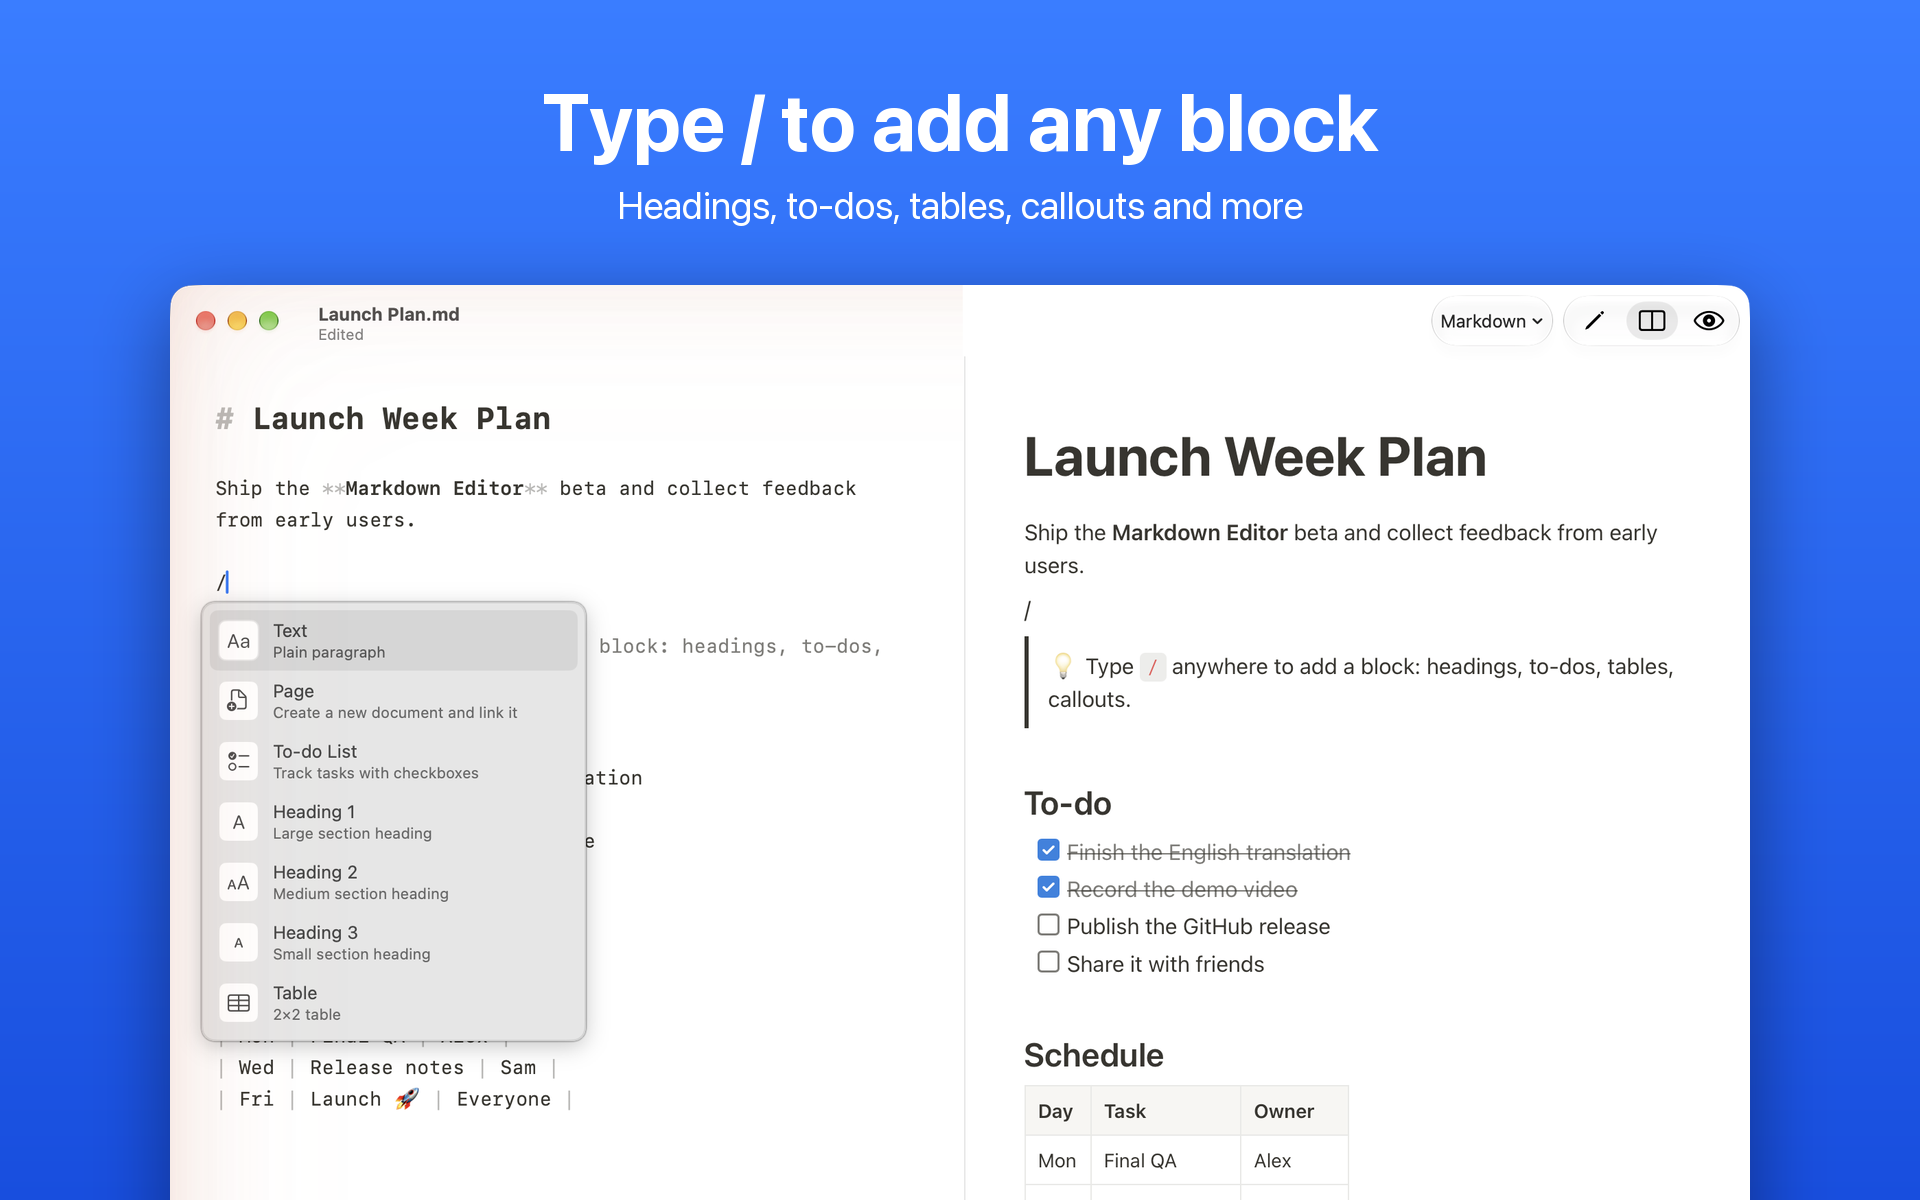
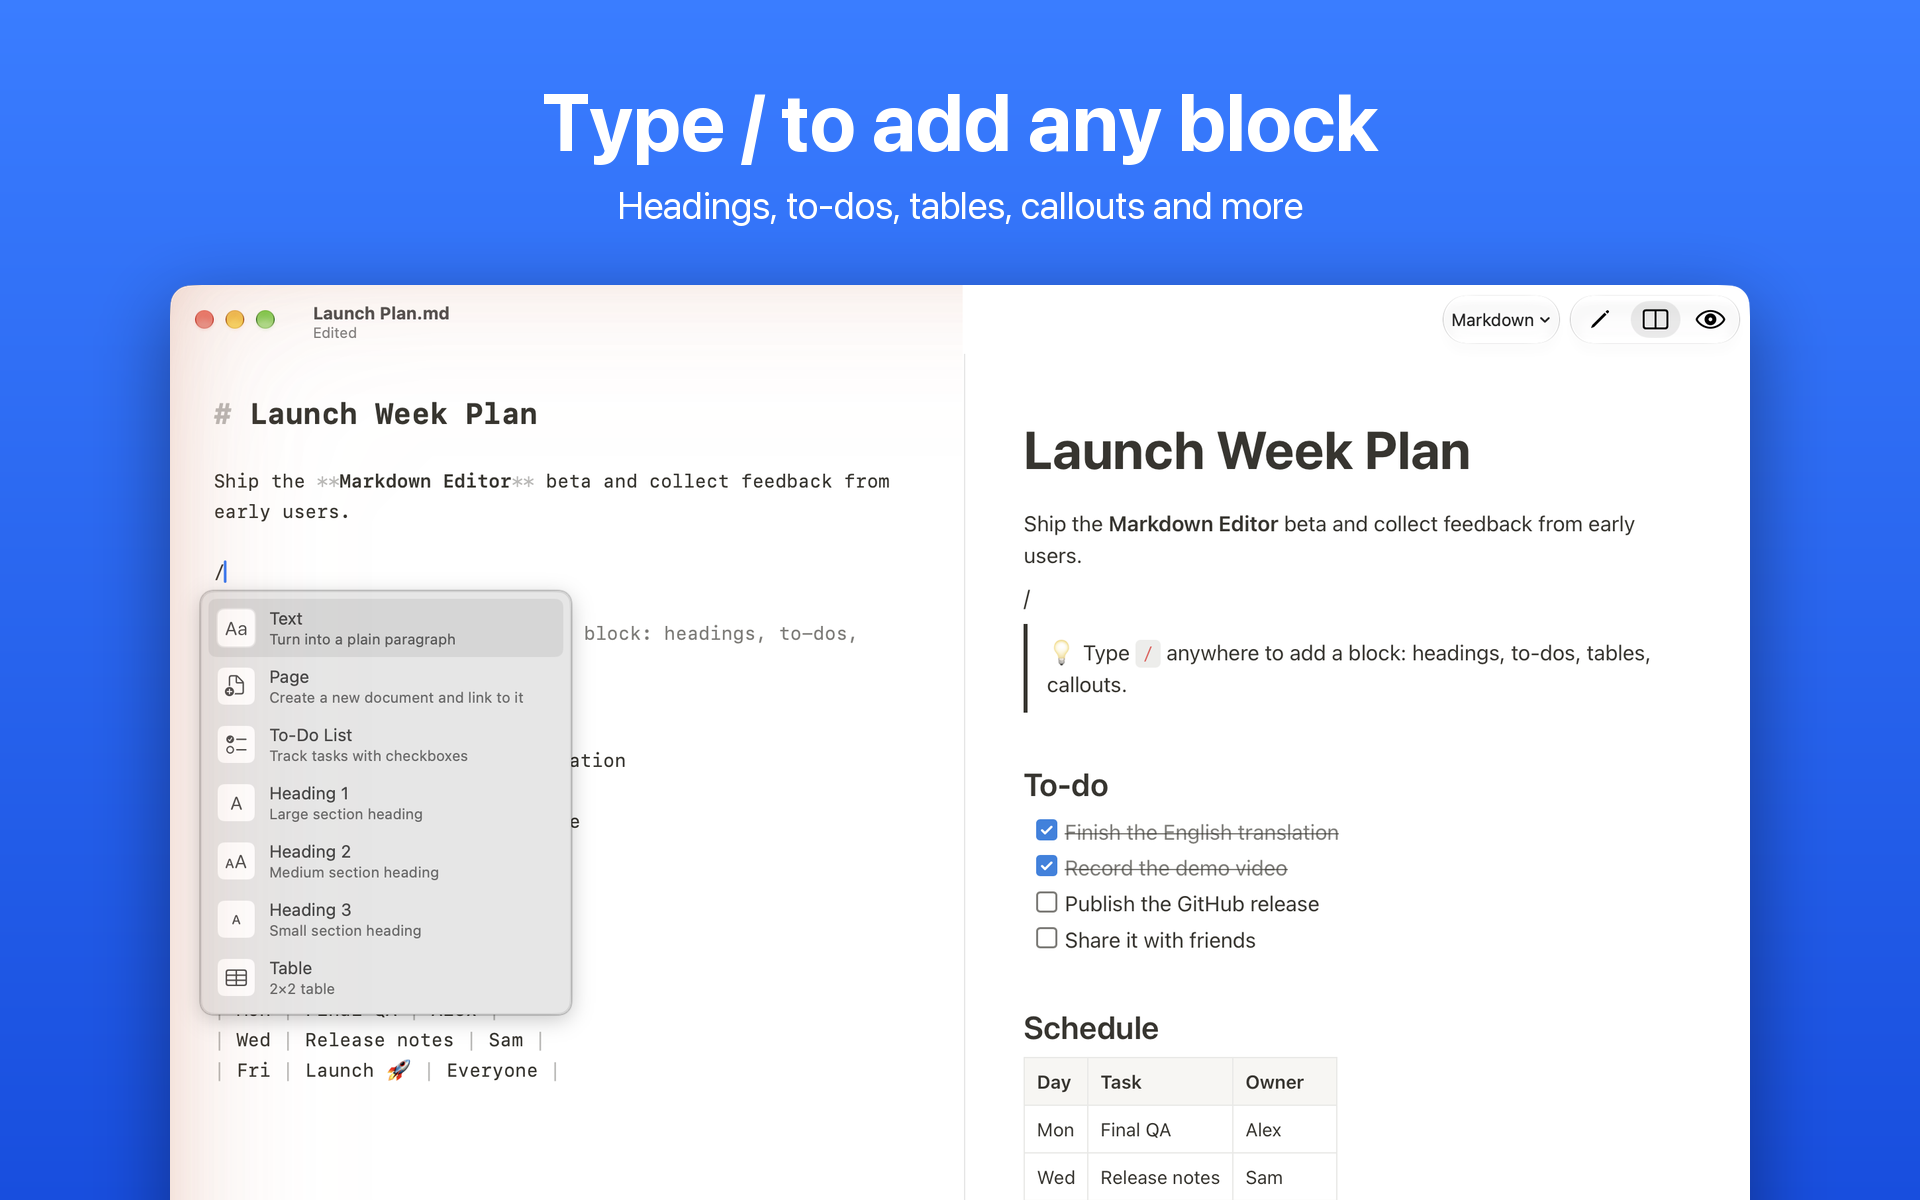
Polish Korean and English wording
Reviewed with Gemini 4 Hydrogen. In the app: 더 보기 spacing, clearer
slash-command hints, the comment box placeholder, and To-Do List in
Apple title case. In the READMEs: standard terms (syntax highlighting,
구문 강조), the per-app language path (응용 프로그램), and smoother
sentences. The screenshots that showed the old wording are retaken.

diff --git a/App/SlashCommands.swift b/App/SlashCommands.swift
@@ -21,7 +21,7 @@ struct SlashCommand: Identifiable {
     /// Notion's basic, inline and advanced blocks that have a Markdown form, in Notion's order.
     static let all: [SlashCommand] = [
         .init(title: String(localized: "텍스트"), hint: String(localized: "일반 문단으로"), symbol: "textformat", keywords: "text plain paragraph", action: .block("")),
-        .init(title: String(localized: "페이지"), hint: String(localized: "새 문서를 만들고 링크"), symbol: "doc.badge.plus", keywords: "page subpage new", action: .page),
+        .init(title: String(localized: "페이지"), hint: String(localized: "새 문서를 만들어 링크 걸기"), symbol: "doc.badge.plus", keywords: "page subpage new", action: .page),
         .init(title: String(localized: "할 일 목록"), hint: String(localized: "체크박스로 할 일 관리"), symbol: "checklist", keywords: "todo task checkbox", action: .block("- [ ] ")),
         .init(title: String(localized: "제목 1"), hint: String(localized: "큰 섹션 제목"), symbol: "textformat.size.larger", keywords: "# h1 heading title", action: .block("# ")),
         .init(title: String(localized: "제목 2"), hint: String(localized: "중간 섹션 제목"), symbol: "textformat.size", keywords: "## h2 heading", action: .block("## ")),
@@ -43,9 +43,9 @@ struct SlashCommand: Identifiable {
         .init(title: String(localized: "링크"), hint: String(localized: "웹 링크·북마크"), symbol: "link", keywords: "link url web book bookmark", action: .insert("[", "](https://)")),
         .init(title: String(localized: "목차"), hint: String(localized: "제목으로 만든 목차"), symbol: "list.bullet.indent", keywords: "toc table of contents outline", action: .toc),
         .init(title: String(localized: "날짜"), hint: String(localized: "오늘 날짜"), symbol: "calendar", keywords: "date today reminder", action: .date),
-        .init(title: String(localized: "이모지"), hint: String(localized: "이모지 선택창"), symbol: "face.smiling", keywords: "emoji", action: .emoji),
+        .init(title: String(localized: "이모지"), hint: String(localized: "이모지 선택 창"), symbol: "face.smiling", keywords: "emoji", action: .emoji),
         .init(title: String(localized: "각주"), hint: String(localized: "문서 끝에 붙는 메모"), symbol: "number", keywords: "footnote", action: .insert("[^", "]")),
-        .init(title: String(localized: "복제"), hint: String(localized: "이 줄을 아래에 복사"), symbol: "plus.square.on.square", keywords: "duplicate dup copy", action: .duplicate),
+        .init(title: String(localized: "복제"), hint: String(localized: "이 줄을 아래에 복제"), symbol: "plus.square.on.square", keywords: "duplicate dup copy", action: .duplicate),
         .init(title: String(localized: "삭제"), hint: String(localized: "이 줄 지우기"), symbol: "trash", keywords: "delete del remove", action: .delete),
     ]
 

diff --git a/App/App.swift b/App/App.swift
@@ -255,7 +255,7 @@ struct FormatMenu: View {
             // The choice covers every file of this kind, so the menu names the kind.
             Section("모든 \(fileURL.pathExtension.isEmpty ? fileURL.lastPathComponent : "." + fileURL.pathExtension) 파일의 형식") {
                 ForEach(FileFormat.common) { option(for: $0) }
-                Menu("더보기") {
+                Menu("더 보기") {
                     ForEach(FileFormat.all.filter { !FileFormat.common.contains($0) }) { option(for: $0) }
                 }
             }
@@ -334,7 +334,7 @@ struct NewFileCommands: Commands {
                 ForEach(FileFormat.common) { format in
                     Button("\(format.name) (.\(format.fileExtension))") { NewFile.createWithPanel(suggesting: format) }
                 }
-                Menu("더보기") {
+                Menu("더 보기") {
                     ForEach(FileFormat.more) { format in
                         Button("\(format.name) (.\(format.fileExtension))") { NewFile.createWithPanel(suggesting: format) }
                     }

diff --git a/FinderExtension/FinderSync.swift b/FinderExtension/FinderSync.swift
@@ -18,12 +18,12 @@ final class FinderSync: FIFinderSync {
         NSImage(systemSymbolName: "doc.badge.plus", accessibilityDescription: String(localized: "새 파일"))!
     }
 
-    /// The toolbar button lists the common formats, the rest under 더보기; a right-click, on a folder's
+    /// The toolbar button lists the common formats, the rest under 더 보기; a right-click, on a folder's
     /// background or on a file in it, has the same under 새로 만들기 as on Windows.
     override func menu(for menuKind: FIMenuKind) -> NSMenu? {
         let formats = NSMenu()
         for format in FileFormat.common { formats.addItem(item(Self.title(for: format))) }
-        let more = NSMenuItem(title: String(localized: "더보기"), action: nil, keyEquivalent: "")
+        let more = NSMenuItem(title: String(localized: "더 보기"), action: nil, keyEquivalent: "")
         more.submenu = NSMenu()
         for format in FileFormat.more { more.submenu?.addItem(item(Self.title(for: format))) }
         formats.addItem(more)

diff --git a/Shared/FileFormats.swift b/Shared/FileFormats.swift
@@ -56,7 +56,7 @@ struct FileFormat: Hashable, Identifiable, Sendable {
     static let markdown = FileFormat(name: "Markdown", extensions: ["md", "markdown", "mdown"], language: nil, preview: .markdown)
     static let text = FileFormat(name: String(localized: "텍스트"), extensions: ["txt", "text", "log"], language: nil, preview: .text)
 
-    /// What people and developers make most, first in the 새 파일 menus; the rest are under 더보기.
+    /// What people and developers make most, first in the 새 파일 menus; the rest are under 더 보기.
     static let common = [markdown] + creatable.prefix(8)
     static let more = Array(creatable.dropFirst(8))
 

diff --git a/App/Preview.swift b/App/Preview.swift
@@ -235,7 +235,7 @@ struct Preview: NSViewRepresentable {
         body.querySelector('.comment-draft')?.remove();
         const draft = make('form'), input = make('input'), add = make('button');
         draft.className = 'comment-draft';
-        input.placeholder = \(js(String(localized: "주석을 쓰고 Return · 취소는 Esc")));
+        input.placeholder = \(js(String(localized: "주석 입력 후 Return · 취소는 Esc")));
         add.textContent = \(js(String(localized: "추가")));
         draft.append(input, add);
         line.before(draft);

diff --git a/README.ko.md b/README.ko.md
@@ -19,7 +19,7 @@
 
 - **실시간 미리보기가 있는 마크다운.** 왼쪽에서 글을 쓰면 오른쪽에 제목, 할 일 목록, 표, 인용이 바로 보여요. ⌘1, ⌘2, ⌘3으로 편집·분할·미리보기를 오가요.
 - **슬래시 명령.** `/`를 입력하면 제목, 할 일 목록, 표, 토글, 콜아웃, 코드 블록, 목차, 날짜, 새 페이지 링크를 넣을 수 있어요.
-- **코드 에디터처럼 보이는 코드 미리보기.** Python, JavaScript, TypeScript, Go, Rust, Swift, Java, C, C++, 셸, SQL, YAML 등을 구문 색상과 줄 번호로 보여 줘요. 줄 번호를 누르면 그 언어의 문법에 맞는 주석을 달 수 있어요.
+- **코드 에디터처럼 보이는 코드 미리보기.** Python, JavaScript, TypeScript, Go, Rust, Swift, Java, C, C++, 셸, SQL, YAML 등의 코드를 구문 강조, 줄 번호와 함께 보여 줘요. 줄 번호를 누르면 그 언어의 문법에 맞는 주석을 달 수 있어요.
 - **데이터 파일.** CSV와 TSV는 표로 열려요. JSON은 올바른지 알려 주고, 틀렸으면 몇 번째 줄 근처인지 짚어 줘요.
 - **Finder 연동.** 폴더에서 우클릭하고 **새로 만들기**를 고르면 마크다운·텍스트·코드 파일을 만들면서 바로 이름을 정할 수 있어요. 훑어보기(Quick Look)로 마크다운을 미리 볼 수 있어요.
 - **인코딩 유지.** UTF-8(BOM 포함 여부 그대로), UTF-16, CP949 파일을 원래 인코딩으로 저장해요.
@@ -39,15 +39,15 @@ cd MarkdownEditor
 ./install.sh
 ```
 
-스크립트가 언어를 물어본 뒤 Release로 빌드해 `/Applications`에 설치하고, Finder와 훑어보기 확장을 등록해요. 묻지 않고 바로 설치하려면 언어를 같이 넘기세요.
+스크립트가 언어를 물어본 뒤 Release로 빌드해 `/Applications`에 설치하고, Finder와 훑어보기 확장을 등록해요. 질문 없이 바로 설치하려면 언어를 함께 넘기세요.
 
 ```bash
-./install.sh --lang ko     # 어디서나 한국어
-./install.sh --lang en     # 어디서나 영어
+./install.sh --lang ko     # 항상 한국어
+./install.sh --lang en     # 항상 영어
 ./install.sh --lang auto   # macOS 언어를 따름
 ```
 
-`auto`로 설치했다면 시스템 설정 ▸ 일반 ▸ 언어 및 지역 ▸ 앱에서 이 앱만 다른 언어로 지정할 수도 있어요.
+`auto`로 설치했다면 시스템 설정 ▸ 일반 ▸ 언어 및 지역 ▸ 응용 프로그램에서 이 앱만 다른 언어로 지정할 수도 있어요.
 
 Finder에서 우클릭해도 **새로 만들기**가 안 보이면 시스템 설정 ▸ 일반 ▸ 로그인 항목 및 확장 프로그램의 확장 프로그램 목록에서 Markdown Editor의 Finder 확장을 켜 주세요.
 
@@ -84,12 +84,12 @@ open MarkdownEditor.xcodeproj
 swiftc Shared/Syntax.swift Checks/main.swift -o /tmp/checks && /tmp/checks
 ```
 
-언어를 더하려면 Xcode에서 `Shared/Localizable.xcstrings`와 세 개의 `InfoPlist.xcstrings`에 번역을 넣고, `project.yml`의 `CFBundleLocalizations`에 그 언어를 추가하세요.
+언어를 추가하려면 Xcode에서 `Shared/Localizable.xcstrings`와 세 개의 `InfoPlist.xcstrings`에 번역을 넣고, `project.yml`의 `CFBundleLocalizations`에 그 언어를 추가하세요.
 
 ## 알려진 한계
 
-- `<!doctype html>` 앞에 주석이나 XML 선언이 있는 HTML 파일은 미리보기가 호환 모드(quirks mode)로 그려질 수 있어요.
-- 구문 색상은 Java 주석 안의 `\u` 이스케이프를 인식하지 않아요.
+- `<!doctype html>` 앞에 주석이나 XML 선언이 있는 HTML 파일은 미리보기가 호환 모드(quirks mode)로 표시될 수 있어요.
+- 구문 강조가 Java 주석 안의 `\u` 이스케이프를 인식하지 못해요.
 
 ## 라이선스
 

diff --git a/README.md b/README.md
@@ -18,10 +18,10 @@
 
 - **Markdown with a live preview.** Edit plain text on the left and see headings, to-do lists, tables and quotes rendered on the right. Switch between Edit, Split and Preview with ⌘1, ⌘2 and ⌘3.
 - **Slash commands.** Type `/` to insert a heading, to-do list, table, toggle, callout, code block, table of contents, date or a link to a new page.
-- **Code files with a code-editor preview.** Python, JavaScript, TypeScript, Go, Rust, Swift, Java, C, C++, shell, SQL, YAML and more open with syntax colors and line numbers. Click a line number to add a comment in that language's syntax.
-- **Data files.** CSV and TSV open as tables. JSON says whether it parses, and points at the line when it doesn't.
+- **Code files with a code-editor preview.** Python, JavaScript, TypeScript, Go, Rust, Swift, Java, C, C++, shell, SQL, YAML and more open with syntax highlighting and line numbers. Click a line number to add a comment in that language's syntax.
+- **Data files.** CSV and TSV open as tables. JSON shows whether it's valid, and points to the line when it isn't.
 - **Finder integration.** Right-click in a folder and choose **New** to create a Markdown, text or code file and name it right away. Quick Look previews Markdown files.
-- **Keeps your encoding.** UTF-8 (with or without BOM), UTF-16 and CP949 files are saved back the way they came.
+- **Keeps your encoding.** UTF-8 (with or without BOM), UTF-16 and CP949 files are saved in their original encoding.
 - **Korean and English.** Choose the language when you install, or let it follow macOS.
 
 ## Requirements
@@ -38,7 +38,7 @@ cd MarkdownEditor
 ./install.sh
 ```
 
-The script asks which language to use, builds a Release copy, installs it to `/Applications` and registers the Finder and Quick Look extensions. To skip the question, pass the language:
+The script asks which language to use, builds the app, installs it to `/Applications` and registers the Finder and Quick Look extensions. To skip the question, pass the language:
 
 ```bash
 ./install.sh --lang en     # English everywhere
@@ -88,7 +88,7 @@ To add a language, add it to `Shared/Localizable.xcstrings` and the three `InfoP
 ## Known limitations
 
 - An HTML file with a comment or an XML declaration before `<!doctype html>` can preview in quirks mode.
-- Java `\u` escapes inside comments aren't recognized by the syntax colorer.
+- Java `\u` escapes inside comments aren't recognized by the syntax highlighter.
 
 ## License
 
